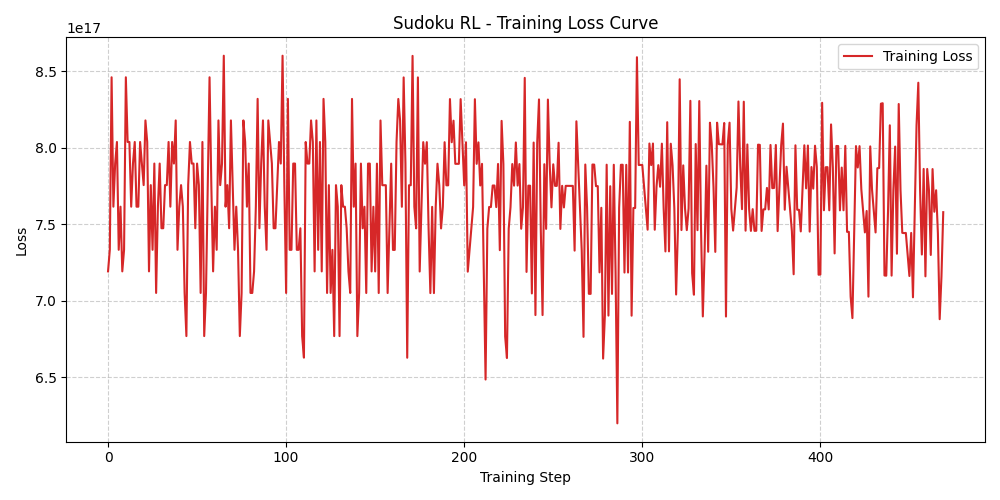
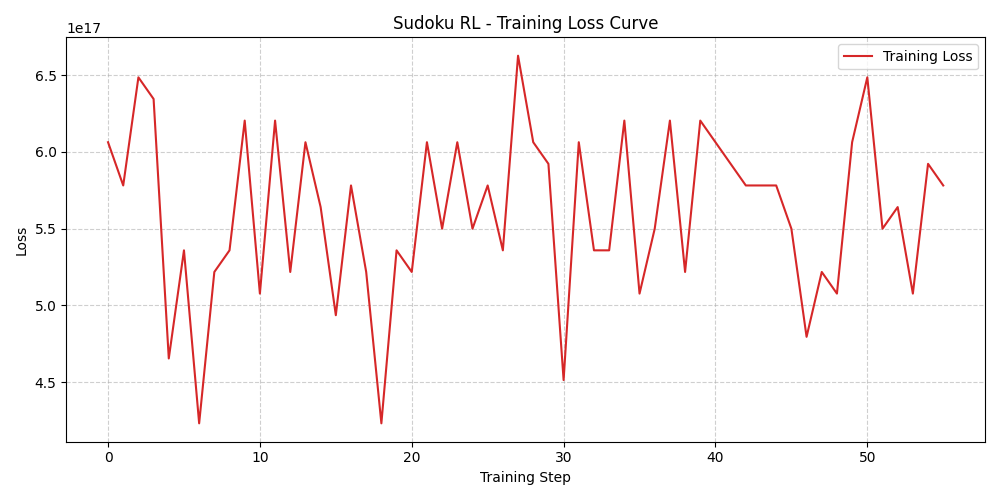
update variables

diff --git a/sudoku-main/DQN.py b/sudoku-main/DQN.py
@@ -88,7 +88,7 @@ class SudokuEnv:
         self.puzzles = puzzles
         self.state = None
         self.steps = 0
-        self.max_steps = 200
+        self.max_steps = 80
 
     def reset(self, idx=None):
         if idx is None:
@@ -105,13 +105,13 @@ class SudokuEnv:
 
         # 불법 행동
         if not is_valid_move(self.state, i, j, k):
-            return self.state.copy(), -1.0, False, {}
+            return self.state.copy(), -2.0, False, {}
 
         # 합법 → 놓기
         self.state[i, j] = k
         # 완성 보상/종료
         if is_solved(self.state):
-            return self.state.copy(), +10.0, True, {}
+            return self.state.copy(), +5.0, True, {}
 
         # 스텝 초과로 에피소드 중단
         done = self.steps >= self.max_steps
@@ -123,9 +123,9 @@ class SudokuEnv:
 def build_qnet():
     # 입력: 81차원(0~9). 간단히 정규화해서 사용.
     inputs = keras.layers.Input(shape=(81,), dtype=tf.float32)
-    x = keras.layers.Normalization()(inputs)  # 내부적으로 mean/std 추정(첫 fit에서 학습됨)
-    x = keras.layers.Dense(512, activation="elu")(x)
-    x = keras.layers.Dense(512, activation="elu")(x)
+    x = inputs  #정규화는 이미 함
+    x = keras.layers.Dense(256, activation="elu")(x)
+    x = keras.layers.Dense(256, activation="elu")(x)
     outputs = keras.layers.Dense(729, activation=None)(x)  # 각 액션의 Q값
     model = keras.Model(inputs, outputs)
     return model
@@ -152,10 +152,10 @@ def epsilon_greedy_action(model, state, mask, epsilon):
 # =========================
 batch_size = 64
 gamma = 0.95
-optimizer = keras.optimizers.Nadam(learning_rate=1e-3)
+optimizer = keras.optimizers.Nadam(learning_rate=1e-4)
 loss_fn = keras.losses.MeanSquaredError()
 
-replay_buffer = deque(maxlen=20000)
+replay_buffer = deque(maxlen=8000)
 
 def play_one_step(env, model, state, epsilon):
     mask = legal_action_mask(state)
@@ -183,9 +183,10 @@ def training_step(model, target_model):
     states, actions, rewards, next_states, dones, next_masks = sample_experiences(batch_size)
 
     # 다음 상태의 Q값 (target net)
-    next_q = target_model.predict(next_states, verbose=0)  # (B,729)
+    next_q = target_model(next_states, training=False).numpy()  # (B,729)
     # 불법 액션 마스킹
-    next_q[next_masks == 0.0] = -1e9
+    for i in range(len(next_q)):
+        next_q[i][next_masks[i] == 0.0] = -1e9
     max_next_q = np.max(next_q, axis=1)  # (B,)
 
     # DQN 타깃
@@ -198,13 +199,14 @@ def training_step(model, target_model):
         q_selected = tf.reduce_sum(all_q * action_onehot, axis=1)   # (B,)
         loss = tf.reduce_mean(loss_fn(target_q_for_actions, q_selected))
     grads = tape.gradient(loss, model.trainable_variables)
+    grads = [tf.clip_by_norm(g,1.0) for g in grads]#클리핑 추가함#exploding gd하기 않기 위함
     optimizer.apply_gradients(zip(grads, model.trainable_variables))
     return float(loss)
 
 # =========================
 # 8) 학습 루프
 # =========================
-def train_rl_only(num_episodes=500, warmup_episodes=30, target_sync_every=10):
+def train_rl_only(num_episodes=200, warmup_episodes=30, target_sync_every=15):
     X_train, *_ = load_dataset()
     env = SudokuEnv(X_train)
 
@@ -223,7 +225,7 @@ def train_rl_only(num_episodes=500, warmup_episodes=30, target_sync_every=10):
         ep_reward = 0.0
 
         # 에피소드마다 epsilon 선형 감소
-        epsilon = max(eps_end, eps_start - (eps_start - eps_end) * (episode / eps_decay_ep))
+        epsilon = max(eps_end, eps_start - (eps_start - eps_end) * (episode / num_episodes)) #epsilon 너무 빨리 감소하지 않게 바꿈
 
         for step in range(env.max_steps):
             state, r, done = play_one_step(env, qnet, state, epsilon)
@@ -235,8 +237,9 @@ def train_rl_only(num_episodes=500, warmup_episodes=30, target_sync_every=10):
 
         # 워밍업 이후부터 학습
         if episode > warmup_episodes and len(replay_buffer) >= batch_size:
-            loss = training_step(qnet, target_qnet)
-            loss_hist.append(loss)
+            if episode%3 ==0:#3번마다 1번 업데이트로 바꿈
+                loss = training_step(qnet, target_qnet)
+                loss_hist.append(loss)
 
         # 타깃 네트워크 주기적 동기화
         if episode % target_sync_every == 0:
@@ -310,7 +313,7 @@ def plot_and_save_curves(rewards, losses, save_dir="output"):
 # 11) 실행
 # =========================
 if __name__ == "__main__":
-    qnet, rewards, losses = train_rl_only(num_episodes=500)
+    qnet, rewards, losses = train_rl_only(num_episodes=200)
 
     # 테스트 평가
     _, _, _, _, X_test, _ = load_dataset()
